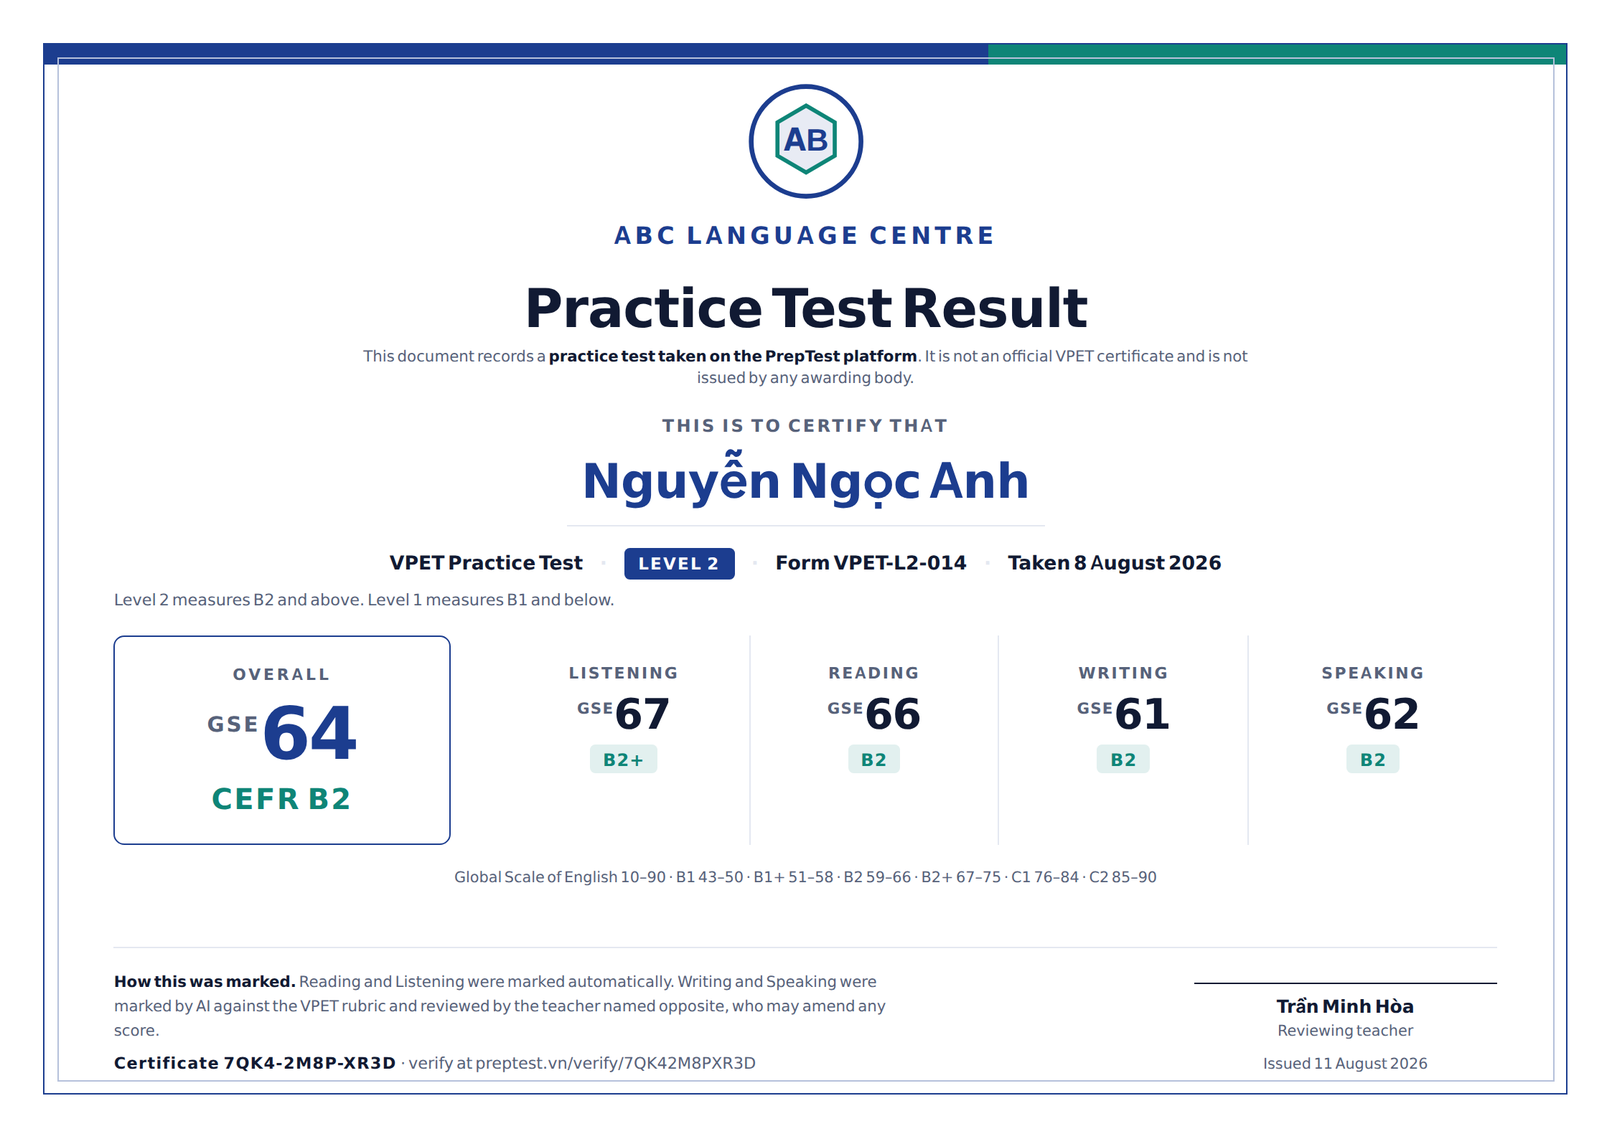
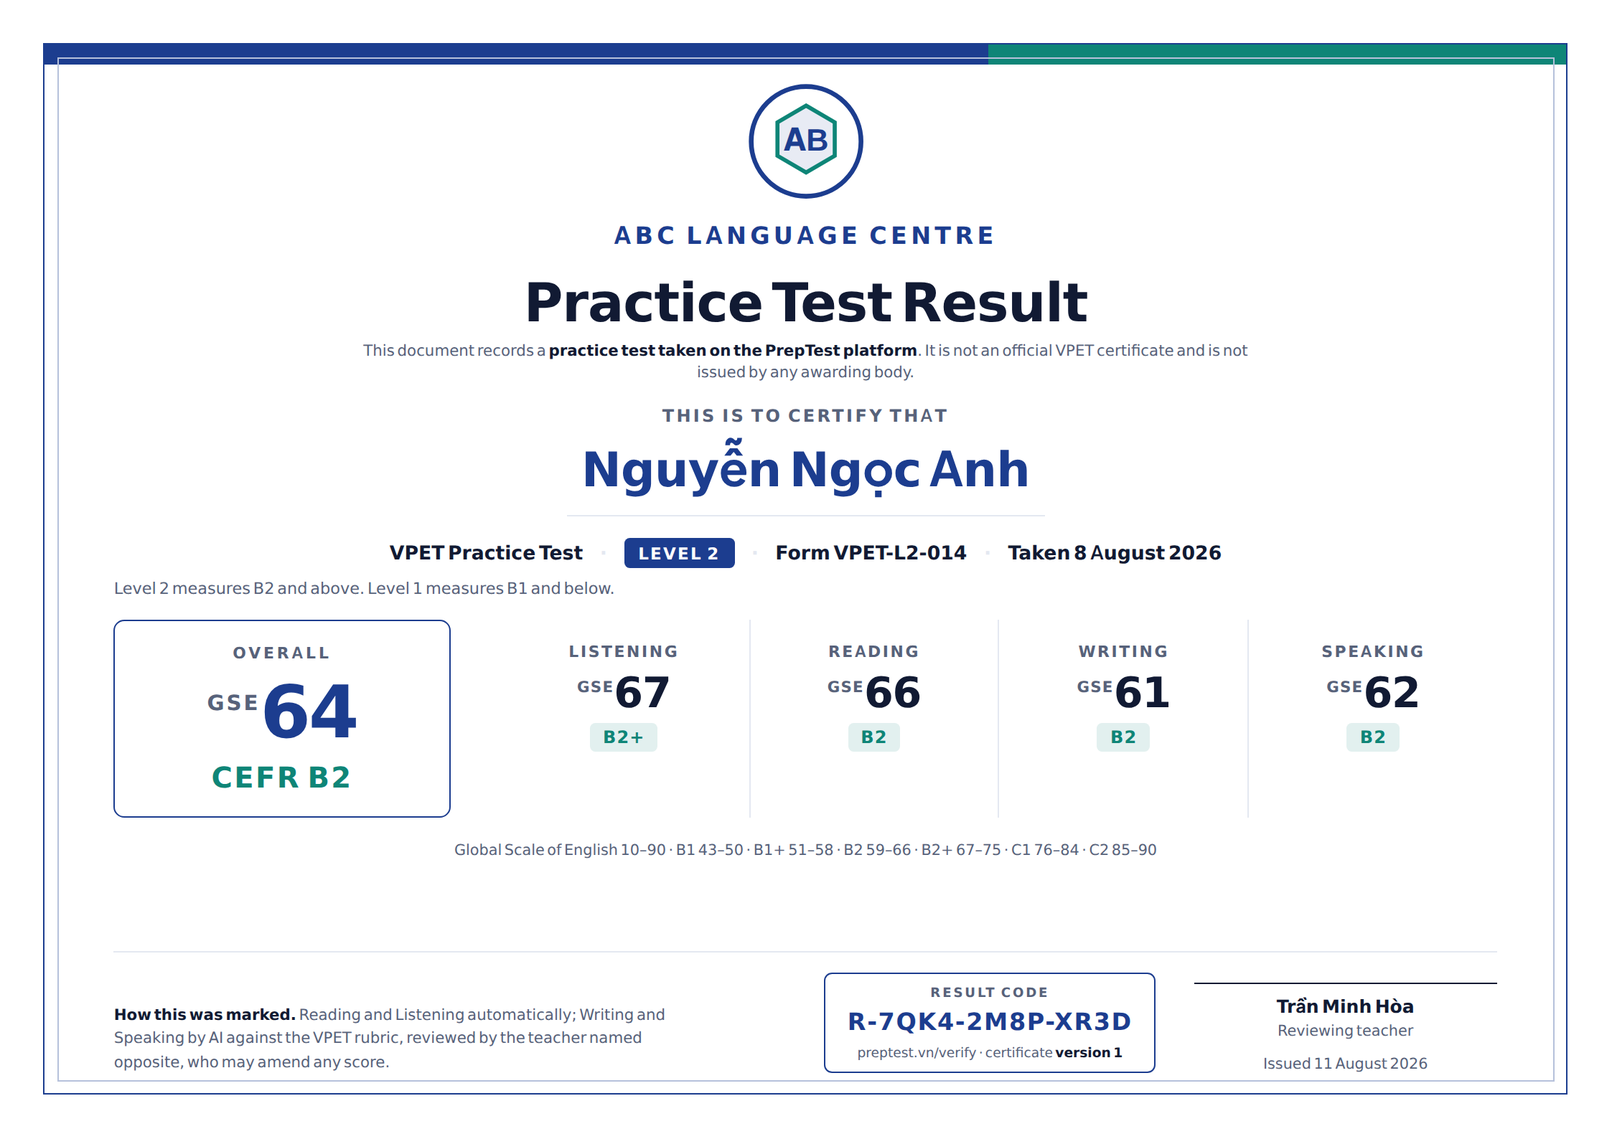
Give the report and the certificate one shared result code
The report and the certificate now both carry a code that tracks the
result on the platform. The code is minted on the attempt rather than on
the certificate — attempts.result_code, generated at submit, stable for
the life of the result, printed on the candidate report, the teacher
report and the certificate. Two codes for one result would be a support
problem within a month: a learner reads out the report code, the teacher
searches certificates, nothing matches, and neither knows which code they
are holding.

Format reuses the alphabet already in makeCode(), which has I, O, 0 and 1
removed because they are misread off paper, in the same XXXX-XXXX-XXXX
grouping as redemption codes. The R- prefix is there so nobody confuses
the two — they look identical and behave nothing alike.

One code resolves at three levels of detail. The candidate signed in sees
the full report and every attempt they have sat. A third party at
/verify/R-… sees name, exam, level, scores, centre and certificate status
and nothing else — no audio, no transcripts, no tips, no other attempts;
being handed a code is being handed one result, not a person's history.
A teacher sees everything plus evidence, flags and the review trail. The
code is ~59 bits and is the access control for the public page, so that
page is rate limited and treated as holding a bearer token.

Certificate reissue now bumps a version under the same code rather than
[…]

diff --git a/docs/mockups/certificate.html b/docs/mockups/certificate.html
@@ -11,7 +11,7 @@
   prose — where the empty logo slot sits, how much room the level indicator needs,
   whether GSE and CEFR can share a line without crowding.
 
-  Three things on this page are design decisions, not decoration:
+  Four things on this page are design decisions, not decoration:
 
   1. The logo slot is empty in the template. Branding is uploaded per form in the
      admin dashboard and pinned onto the issued certificate.
@@ -20,6 +20,9 @@
      official VPET certificate.
   3. The level is printed on the face. "B1" from a Level 1 form and "B1" from a
      Level 2 form mean different things, and a reader has to be able to tell.
+  4. The result code is boxed, not tucked into the small print. It is the identity
+     of the result on the platform — the same string appears on the candidate's
+     report — so it has to survive being read aloud over the phone or photocopied.
 
   Render:  node scripts/shot-certificate.mjs
   Tokens follow src/tailwind.css; the font is the self-hosted Plus Jakarta Sans,
@@ -116,7 +119,7 @@
   body:not(.has-logo) .org { color: color-mix(in srgb, var(--primary) 45%, white); }
 
   .title {
-    margin-top: 5mm;
+    margin-top: 4mm;
     font-size: 28pt; font-weight: 800; letter-spacing: -.015em; line-height: 1.05;
   }
   .disclaimer {
@@ -127,7 +130,7 @@
 
   /* ---------------- candidate ---------------- */
   .awarded {
-    margin-top: 5mm; text-align: center;
+    margin-top: 4mm; text-align: center;
     font-size: 9pt; font-weight: 600; letter-spacing: .14em; text-transform: uppercase;
     color: var(--muted);
   }
@@ -152,13 +155,13 @@
 
   /* ---------------- scores ---------------- */
   .scores {
-    margin-top: 5mm;
+    margin-top: 4mm;
     display: grid; grid-template-columns: 62mm 1fr; gap: 0 9mm; align-items: stretch;
   }
 
   .overall {
     border: 1.4px solid var(--primary); border-radius: 2mm;
-    padding: 5mm 4mm; text-align: center;
+    padding: 4mm; text-align: center;
     display: flex; flex-direction: column; justify-content: center;
   }
   .overall-label {
@@ -179,7 +182,7 @@
 
   .skills { display: grid; grid-template-columns: repeat(4, 1fr); gap: 0; }
   .skill {
-    padding: 5mm 3mm; text-align: center;
+    padding: 4mm 3mm; text-align: center;
     border-left: 1px solid var(--line);
   }
   .skill:first-child { border-left: 0; }
@@ -222,15 +225,28 @@
   .foot {
     margin-top: auto; padding-top: 3.5mm;
     border-top: 1px solid var(--line);
-    display: grid; grid-template-columns: 1fr auto; gap: 8mm; align-items: end;
+    display: grid; grid-template-columns: 1fr auto auto; gap: 7mm; align-items: end;
   }
-  .marking { font-size: 8pt; font-weight: 500; line-height: 1.6; color: var(--muted); max-width: 150mm; }
+  .marking { font-size: 8pt; font-weight: 500; line-height: 1.55; color: var(--muted); max-width: 104mm; }
   .marking b { color: var(--ink); font-weight: 700; }
-  .code {
-    margin-top: 2mm;
-    font-size: 8.4pt; font-weight: 700; letter-spacing: .06em; color: var(--ink);
+
+  /* The result code is the identity of the result on the platform, not a
+     reference number in the small print — the report carries the same string,
+     and support asks for it by name. Boxed so it survives a photocopy. */
+  .codebox {
+    border: 1.2px solid var(--primary); border-radius: 1.5mm;
+    padding: 2mm 4mm; text-align: center; min-width: 54mm;
   }
-  .code span { font-weight: 500; color: var(--muted); letter-spacing: 0; }
+  .codebox-label {
+    font-size: 6.8pt; font-weight: 700; letter-spacing: .16em; text-transform: uppercase;
+    color: var(--muted);
+  }
+  .codebox-code {
+    margin-top: .8mm;
+    font-size: 12.5pt; font-weight: 800; letter-spacing: .05em; color: var(--primary);
+  }
+  .codebox-url { margin-top: 1.2mm; font-size: 7pt; font-weight: 500; color: var(--muted); }
+  .codebox-url b { font-weight: 700; color: var(--ink); }
 
   .sign { text-align: center; min-width: 56mm; }
   .sign-line { height: 1px; background: var(--ink); margin-bottom: 1.8mm; }
@@ -326,16 +342,16 @@
     </div>
 
     <div class="foot">
-      <div>
-        <div class="marking">
-          <b>How this was marked.</b> Reading and Listening were marked automatically.
-          Writing and Speaking were marked by AI against the VPET rubric and reviewed by the
-          teacher named opposite, who may amend any score.
-        </div>
-        <div class="code">
-          Certificate 7QK4-2M8P-XR3D
-          <span>· verify at preptest.vn/verify/7QK42M8PXR3D</span>
-        </div>
+      <div class="marking">
+        <b>How this was marked.</b> Reading and Listening automatically; Writing and
+        Speaking by AI against the VPET rubric, reviewed by the teacher named opposite,
+        who may amend any score.
+      </div>
+
+      <div class="codebox">
+        <div class="codebox-label">Result code</div>
+        <div class="codebox-code">R-7QK4-2M8P-XR3D</div>
+        <div class="codebox-url">preptest.vn/verify &middot; certificate <b>version 1</b></div>
       </div>
 
       <div class="sign">

diff --git a/docs/VOICE.md b/docs/VOICE.md
@@ -1067,6 +1067,12 @@ Ranking rule: **sort tips by GSE points recoverable, not by severity.** The most
 broken thing is not always the cheapest to fix, and a learner will act on three
 concrete tips but not on eleven.
 
+**4. Where do I find this again?** The report header carries the **result code**
+(section 8.5) — the same code that will appear on the certificate — and below the
+tips, the learner's GSE line across previous attempts. The code is what makes the
+report a durable record rather than a page that scrolls away, and it is what
+support asks for when someone writes in about a score.
+
 ### 8.3 The teacher score report
 
 One attempt, one screen:
@@ -1199,38 +1205,89 @@ page `/verify/<code>` showing only: the exam, the level, the date, the issuing
 organisation and the status. Nothing else — the verify page is public, so it
 carries the minimum needed to confirm the document is real.
 
-**Reissue, never edit.** Once issued, a certificate is a snapshot. If a score is
-later corrected, the old certificate is `revoked` and a new one issued with a new
-code; the verify page for the old code says so and points at the replacement. A
-certificate whose contents can change silently is worth nothing.
+**Reissue as a new version, under the same code.** Once issued, a certificate is a
+snapshot. If a score is later corrected, the certificate is **reissued as version 2
+under the same result code** rather than getting a new code. The verify page shows
+the current version and says an earlier one was superseded.
+
+This is the better of the two obvious designs. Minting a new code on reissue turns
+the printed copy someone is holding into a dead code — they get "not found", which
+looks identical to holding a forgery. Keeping the code stable means an old printout
+still resolves, and the verify page tells them plainly that a newer version exists
+and what it says. The holder learns something true either way.
 
 **Interaction with the 24-month retention (section 13).** The recordings expire;
 the scores, transcripts, rubric evidence and certificate rows do not. What defends
 a certificate is the score record, not the audio — and the score record contains
 no voice.
 
-### 8.5 Schema and API for this section
+### 8.5 The result code — one identity per result
+
+**Owner decision (2026-08-11): the report and the certificate both carry a code
+that tracks the result on the platform.**
+
+**One code, not two.** The code is minted on the attempt, not on the certificate:
+`attempts.result_code`, generated when the attempt is submitted, stable for the
+life of the result. It appears on the candidate report, on the teacher report and
+on the certificate — the same string in all three places.
+
+Two codes for one result would be a support problem within a month: a learner reads
+out the report code, the teacher searches certificates, nothing matches, and
+neither of them knows which code they are holding. One result, one identity.
+
+**Format.** `R-7QK4-2M8P-XR3D` — the platform's existing code alphabet from
+`makeCode()` in `server/db.js` (31 characters, with `I`, `O`, `0` and `1` removed
+because they are misread when copied off paper), in the same `XXXX-XXXX-XXXX`
+grouping already used for redemption codes.
+
+The `R-` prefix earns its place: support staff and learners will otherwise confuse
+result codes with redemption codes, which look identical and behave nothing alike.
+A glance at the prefix settles it.
+
+Entropy is 31¹² ≈ 7.9 × 10¹⁷, about 59 bits. Enough that the code *is* the access
+control for the public verify page, provided that page is rate limited (below) —
+but it is a bearer token, so treat it as one: never in a URL you would put in an
+email subject, never in an analytics event, never in a log line.
+
+**Three ways in, three levels of detail.** The same code, different answers
+depending on who is asking:
+
+| Who | How | What they see |
+|---|---|---|
+| **Candidate** | signed in, or code + date of birth | The full report: every skill, GSE and CEFR, the ranked tips, transcripts, their own audio, and every attempt they have sat |
+| **Third party** — an employer, a school | `/verify/R-…`, public, no account | Name, exam, level, date, GSE and CEFR per skill, issuing centre, certificate version and status. **Nothing else** |
+| **Teacher / admin** | signed in | Everything above plus the AI evidence, the flags, the review history and the audit trail |
+
+What the public page deliberately does **not** carry: audio, transcripts, email
+address, the improvement tips, or any other attempt by the same learner. It answers
+exactly one question — *is this document real and does it say what it claims* — and
+nothing more. A third party who has been handed a code has been handed one result,
+not a person's history.
+
+**Rate limiting is not optional here.** `/verify/:code` is public and unauthenticated,
+and a successful hit returns a name and a set of scores. Limit per IP, add a
+delay after repeated misses, and treat a burst of misses as an enumeration attempt
+worth logging. The existing brute-force protection on the admin login is the model.
+
+**Tracking across attempts is where GSE pays off a second time.** Each attempt gets
+its own code, and because every result sits on one continuous 10–90 scale, the
+learner's history is a line rather than a list:
 
 ```
-certificates
-  id
-  code             public verification code, unguessable, UNIQUE
-  attempt_id, user_id
-  full_name        as printed, snapshotted at issue
-  test_id, level   1 | 2
-  scores_json      per-skill GSE + CEFR + overall, snapshotted
-  marked_by_json   which parts were auto / AI / teacher reviewed
-  profile_id, profile_version   branding pinned at issue (section 8.4)
-  issued_by        admins.id — the teacher who signed off
-  issued_at
-  status           issued | revoked | superseded
-  superseded_by, revoke_reason
+GSE 47  →  52  →  55  →  61
+B1        B1+    B1+    B2      four attempts, Feb to August
+```
 
-certificate_profiles          per-form branding, see section 8.4
+CEFR bands alone would show "B1, B1, B1, B2" and hide three of the four gains. This
+is the single most motivating screen the platform can show a learner, and it exists
+only because the scale underneath is continuous. It also gives the teacher a cohort
+view — who is moving, who has stalled — from data already being collected.
 
-tests.release_policy          instant | after_review   (section 8.1)
-tests.level                   1 | 2                    (section 1.7)
+### 8.6 Schema and API for this section
 
+```
+attempts.result_code          'R-XXXX-XXXX-XXXX', UNIQUE, minted at submit and
+                              never reissued — the tracking identity (section 8.5)
 attempts.status               ... | awaiting_review | released
 attempts.released_by, attempts.released_at
 attempts.review_requested_at  learner asked for a human look (section 8.1)
@@ -1239,16 +1296,37 @@ attempt_scores.gse            per skill, alongside the CEFR band
 attempt_tips_json             the ranked improvement tips shown to the learner,
                               stored so the report is reproducible and so the
                               advice can be evaluated later against real progress
+
+certificates
+  id
+  attempt_id                  the result code lives on the attempt, not here
+  version                     1, 2, 3 … reissue bumps this, the code stays put
+  full_name                   as printed, snapshotted at issue
+  test_id, level              1 | 2
+  scores_json                 per-skill GSE + CEFR + overall, snapshotted
+  marked_by_json              which parts were auto / AI / teacher reviewed
+  profile_id, profile_version branding pinned at issue (section 8.4)
+  issued_by                   admins.id — the teacher who signed off
+  issued_at
+  status                      issued | revoked | superseded
+  supersedes, revoke_reason
+  UNIQUE (attempt_id, version)
+
+certificate_profiles          per-form branding, see section 8.4
+
+tests.release_policy          instant | after_review   (section 8.1)
+tests.level                   1 | 2                    (section 1.7)
 ```
 
 ```
-GET    /api/me/results/:attemptId              candidate's own report, GSE + tips
-POST   /api/me/results/:attemptId/review       ask for a teacher to look at it
+GET    /api/me/results                         every attempt, with the GSE line
+GET    /api/me/results/:code                   own report by result code, GSE + tips
+POST   /api/me/results/:code/review            ask for a teacher to look at it
 
-GET    /api/admin/attempts/:id/report          the full score report
-POST   /api/admin/attempts/:id/signoff         record the review, release if needed
-POST   /api/admin/attempts/:id/certificate     issue (returns the code)
-POST   /api/admin/certificates/:code/revoke    revoke, optionally superseding
+GET    /api/admin/results/:code                the full score report, by code
+POST   /api/admin/results/:code/signoff        record the review, release if needed
+POST   /api/admin/results/:code/certificate    issue or reissue (bumps the version)
+POST   /api/admin/results/:code/revoke         revoke the current certificate
 GET    /api/admin/certificate-profiles         list / create / update branding
 POST   /api/admin/certificate-profiles/:id/logo   logo upload (PNG/JPEG only)
 GET    /admin/certificate/:code                printable HTML certificate
@@ -1256,9 +1334,14 @@ GET    /admin/certificate/:code                printable HTML certificate
 GET    /verify/:code                           public verification page
 ```
 
+Routing admin and candidate lookups by `result_code` rather than by numeric
+`attempt_id` means the string a learner reads off their report is the string that
+works everywhere — support can paste it straight into the admin search, and nobody
+has to translate between two identifiers.
+
 `/verify/:code` is the only public route in this design. It takes no parameters
-beyond the code, returns the same minimal payload for every caller, and needs rate
-limiting like any other guessable-token endpoint.
+beyond the code, returns the same minimal payload for every caller, and is rate
+limited as described in section 8.5.
 
 Storing `attempt_tips_json` is worth the column. It makes an old report
 reproducible when the tip generator changes, and — more usefully — it lets the
@@ -1539,4 +1622,5 @@ and 5.
 | Exam levels | **Two.** Level 1 measures B1 and below, Level 2 measures B2 and above. Neither reports outside its range | Section 1.7 |
 | Who sees the scores | **The candidate, immediately, for practice tests** — GSE per skill plus ranked tips. The teacher gets the same attempt in a score report; certificates still need sign-off | Section 8.1, 8.2 |
 | Certificate branding | **Logo slot empty in the template.** Uploaded in the admin dashboard, chosen by test code at export, pinned onto the issued certificate | Section 8.4 |
+| Result tracking | **One code per attempt** (`R-XXXX-XXXX-XXXX`), minted at submit, printed on the report and on the certificate, resolvable at three levels of detail. Reissue bumps a version under the same code | Section 8.5 |
 | Retention of candidate speech | **24 months** | Section 13 |

diff --git a/docs/ROADMAP.md b/docs/ROADMAP.md
@@ -25,6 +25,7 @@ Six standing decisions that shape the work:
 | Reporting scale | **GSE 10–90 as the working scale, CEFR as the label.** GSE granularity is what lets the report say "4 points from B2" and turn that into advice ([`docs/VOICE.md`](VOICE.md) §1.6) |
 | Exam levels | **Two.** Level 1 measures B1 and below (GSE 10–50), Level 2 measures B2 and above (GSE 59–90). A form never reports outside its own range — it reports a ceiling or floor and recommends the other level ([`docs/VOICE.md`](VOICE.md) §1.7) |
 | Score delivery | **Practice results release to the candidate immediately**, with GSE per skill and ranked tips. Teachers get the same attempt in a score report, and certificates are only ever issued after sign-off. Per-test `release_policy` ([`docs/VOICE.md`](VOICE.md) §8.1) |
+| Result tracking | **One code per attempt** (`R-XXXX-XXXX-XXXX`), minted at submit and printed on both the report and the certificate. Resolves at three levels of detail — full report for the candidate, minimal verification for a third party, everything for a teacher ([`docs/VOICE.md`](VOICE.md) §8.5) |
 | Candidate audio retention | **24 months**, enforced by a bucket lifecycle rule. Scores and transcripts outlive the recordings |
 | Audio storage | Storage adapter with two drivers — local disk for dev, Supabase Storage for production; a Google Cloud Storage driver is queued |
 | Interface language | **English everywhere** — UI copy, code, identifiers, comments, data and AI prompts |
@@ -65,7 +66,8 @@ Queue for this track, in order:
 - [ ] VPET exam engine: per-part timer, audio playback with a fixed replay count, microphone capture for parts H/I/J, autosave and submit. Capture is 16 kHz mono WAV via `AudioWorklet`, not `MediaRecorder` ([`docs/VOICE.md`](VOICE.md) §5.1), uploaded per item with an IndexedDB safety copy
 - [ ] AI speaking scoring ([`docs/VOICE.md`](VOICE.md) §6): deterministic metrics layer first, then the OpenAI adapter — ASR plus word matching for part H, audio-native with strict `json_schema` output for parts I and J, per-part rubrics and weights, reviewer override, and a manual-scoring fallback while no API key is set
 - [ ] **Two exam levels** ([`docs/VOICE.md`](VOICE.md) §1.7): `tests.level` 1 or 2, items tagged by level so a Level 1 form never draws Level 2 items, and a scoring engine that clamps to the level's measurement range — reporting a ceiling or floor with a recommendation to sit the other level instead of a number the form cannot support
-- [ ] **Candidate result report** ([`docs/VOICE.md`](VOICE.md) §8.2): GSE 10–90 per skill beside the CEFR band, distance to the next boundary, and ranked "tips to max score" built from the lowest criteria, the part H word alignment, the deterministic speech metrics, part J content coverage and the model's evidence quotes — each tip linked to the matching `/prep/hoc/` study page at the learner's level. Releases immediately for practice tests; flagged answers show as "needs a teacher" rather than a fabricated score
+- [ ] **Result code** ([`docs/VOICE.md`](VOICE.md) §8.5): `attempts.result_code` in the existing `makeCode()` alphabet with an `R-` prefix, minted at submit and never reissued; admin and candidate lookups route by code rather than numeric id so the string on the paper is the string that works everywhere; `/verify/:code` public and rate limited, returning verification detail only
+- [ ] **Candidate result report** ([`docs/VOICE.md`](VOICE.md) §8.2): GSE 10–90 per skill beside the CEFR band, distance to the next boundary, and ranked "tips to max score" built from the lowest criteria, the part H word alignment, the deterministic speech metrics, part J content coverage and the model's evidence quotes — each tip linked to the matching `/prep/hoc/` study page at the learner's level. Carries the result code and the learner's GSE line across previous attempts. Releases immediately for practice tests; flagged answers show as "needs a teacher" rather than a fabricated score
 - [ ] **Teacher score report and certificates** ([`docs/VOICE.md`](VOICE.md) §8.3–8.5): one screen per attempt with item-level auto-marking, AI criteria plus evidence and transcript, per-criterion override and sign-off; `release_policy` and `awaiting_review` states; `certificate_profiles` with per-form logo upload (PNG/JPEG only, never SVG) pinned onto each issued certificate; a printable certificate page (HTML + print CSS, no new dependency), the `certificates` table and a public `/verify/:code` page. The certificate states plainly that it records a practice result on this platform, prints the level sat, and carries no awarding-body branding
 - [ ] Auto marking for parts A, C, E, F, G plus the score-to-CEFR conversion in `docs/SCORING.md`
 - [ ] Translate the whole interface to English — 12 student screens, 8 admin screens, every banner and empty state
